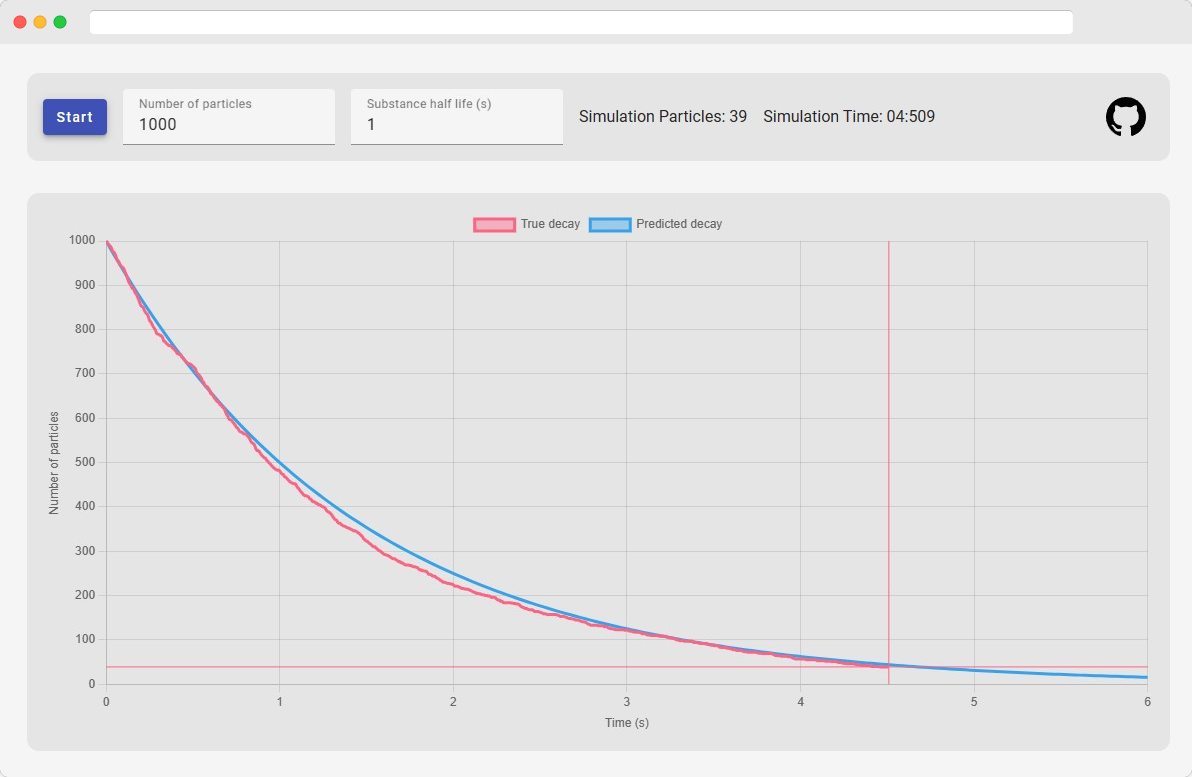
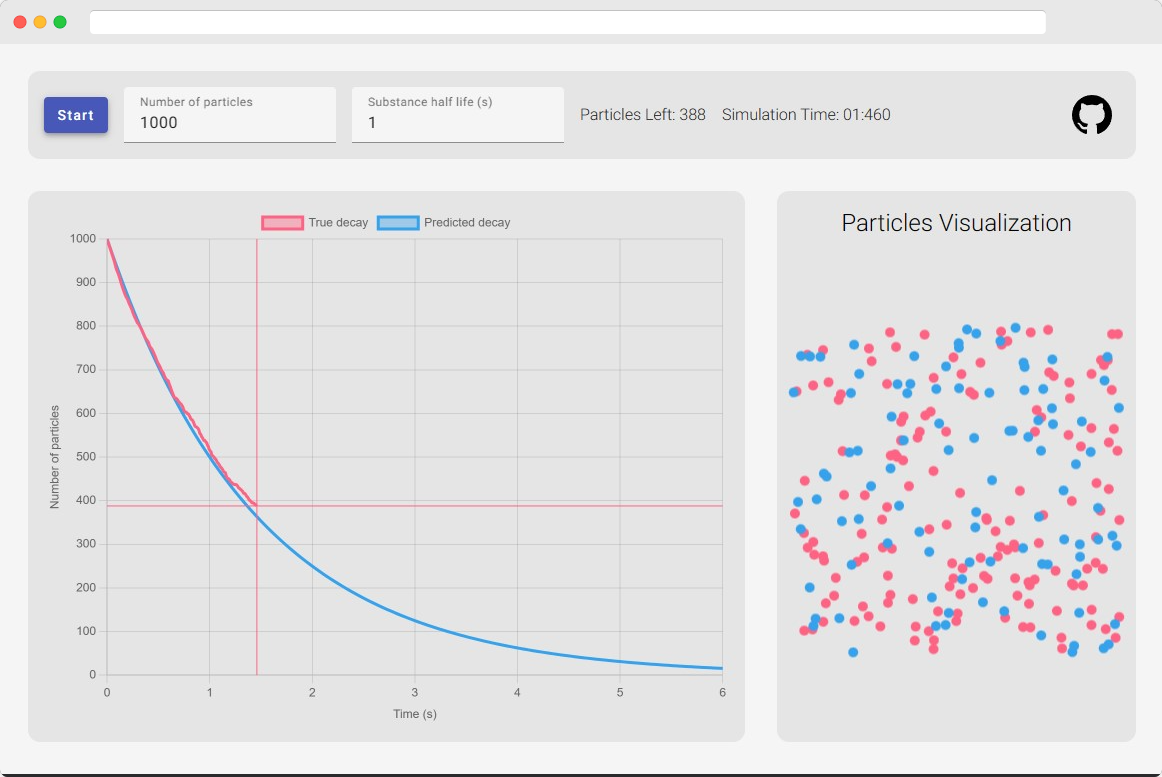
Add particle visualization

diff --git a/src/app/visualize/visualize.component.ts b/src/app/visualize/visualize.component.ts
@@ -1,0 +1,55 @@
+import {
+  Component,
+  Input,
+  OnChanges,
+  OnInit,
+  SimpleChange,
+  SimpleChanges,
+} from '@angular/core';
+import { Subject } from 'rxjs';
+import { newPlotDataType } from '../plot/plot.component';
+
+@Component({
+  selector: 'app-visualize',
+  templateUrl: './visualize.component.html',
+  styleUrls: ['./visualize.component.scss'],
+})
+export class VisualizeComponent implements OnChanges, OnInit {
+  lastDecayedParticleIndex = 0;
+  particlesMultiplier = 1;
+  particles: { x: number; y: number; decayed: boolean }[] = [];
+
+  @Input() startNewPlot!: Subject<newPlotDataType>;
+  @Input() numberOfParticles!: number;
+  @Input() maxNumberOfParticles: number = 250;
+
+  ngOnInit() {
+    this.startNewPlot.subscribe((v) => {
+      this.particles = [
+        ...Array(Math.min(v.particles, this.maxNumberOfParticles)),
+      ].map((_) => ({ x: Math.random(), y: Math.random(), decayed: false }));
+      this.particlesMultiplier =
+        v.particles > this.maxNumberOfParticles
+          ? this.maxNumberOfParticles / v.particles
+          : 1;
+      this.lastDecayedParticleIndex = 0;
+    });
+  }
+
+  ngOnChanges(changes: SimpleChanges) {
+    if (!changes['numberOfParticles']) return;
+
+    this.markDecayedParticles(changes['numberOfParticles'].currentValue);
+  }
+
+  markDecayedParticles(notDecayedParticles: number) {
+    const amountToDecay = Math.floor(
+      this.particles.length - notDecayedParticles * this.particlesMultiplier
+    );
+
+    for (let i = this.lastDecayedParticleIndex; i < amountToDecay; i++) {
+      this.particles[i].decayed = true;
+      this.lastDecayedParticleIndex = i;
+    }
+  }
+}

diff --git a/src/app/app.module.ts b/src/app/app.module.ts
@@ -11,6 +11,7 @@ import { NgChartsModule } from 'ng2-charts';
 import { InputMenuComponent } from './input-menu/input-menu.component';
 import { HeaderComponent } from './header/header.component';
 import { MatTooltipModule } from '@angular/material/tooltip';
+import { VisualizeComponent } from './visualize/visualize.component';
 
 @NgModule({
   declarations: [
@@ -18,6 +19,7 @@ import { MatTooltipModule } from '@angular/material/tooltip';
     PlotComponent,
     InputMenuComponent,
     HeaderComponent,
+    VisualizeComponent,
   ],
   imports: [
     BrowserModule,

diff --git a/src/app/app.component.html b/src/app/app.component.html
@@ -1,8 +1,6 @@
-<div
-  class="h-screen p-8 bg-neutral-100 grid gap-8"
-  style="grid-template-rows: auto 1fr"
->
+<div class="min-h-screen p-8 bg-neutral-100 grid gap-8 grid-layout">
   <app-header
+    class="lg:col-span-2"
     (start)="
       startNewPlot.next($event); sim.start($event.halfLife, $event.particles)
     "
@@ -17,4 +15,9 @@
     [newRealDataPoint]="sim.newDataPointEvent"
     [startNewPlot]="startNewPlot"
   ></app-plot>
+
+  <app-visualize
+    [numberOfParticles]="sim.particles"
+    [startNewPlot]="startNewPlot"
+  ></app-visualize>
 </div>

diff --git a/src/app/header/header.component.html b/src/app/header/header.component.html
@@ -5,10 +5,8 @@
     (stop)="stop.emit()"
   ></app-input-menu>
 
-  <div *ngIf="ranAtLeastOnce" class="text-neutral-800 flex gap-4">
-    <span>
-      Simulation Particles: {{ (newRealDataPoint | async)?.particles }}
-    </span>
+  <div *ngIf="ranAtLeastOnce" class="text-neutral-800 flex gap-4 font-light">
+    <span> Particles Left: {{ (newRealDataPoint | async)?.particles }} </span>
     <span>
       Simulation Time:
       {{ (newRealDataPoint | async)?.time | date : "ss:SSS" }}

diff --git a/src/app/visualize/visualize.component.html b/src/app/visualize/visualize.component.html
@@ -1,0 +1,12 @@
+<div class="w-full h-full bg-neutral-200 p-4 rounded-xl flex flex-col gap-4">
+  <h2 class="text-2xl text-center font-light">Particles Visualization</h2>
+  <svg viewBox="0 0 1 1" class="w-full h-full overflow-visible">
+    <circle
+      *ngFor="let particle of particles"
+      [attr.cx]="particle.x"
+      [attr.cy]="particle.y"
+      [attr.fill]="particle.decayed ? '#ff6384' : '#36a2eb'"
+      r="0.015"
+    />
+  </svg>
+</div>

diff --git a/src/app/app.component.scss b/src/app/app.component.scss
@@ -1,0 +1,11 @@
+.grid-layout {
+  grid-template-rows: auto 1fr auto;
+  grid-template-columns: 1fr;
+}
+
+@screen lg {
+  .grid-layout {
+    grid-template-rows: auto 1fr;
+    grid-template-columns: 2fr 1fr;
+  }
+}
